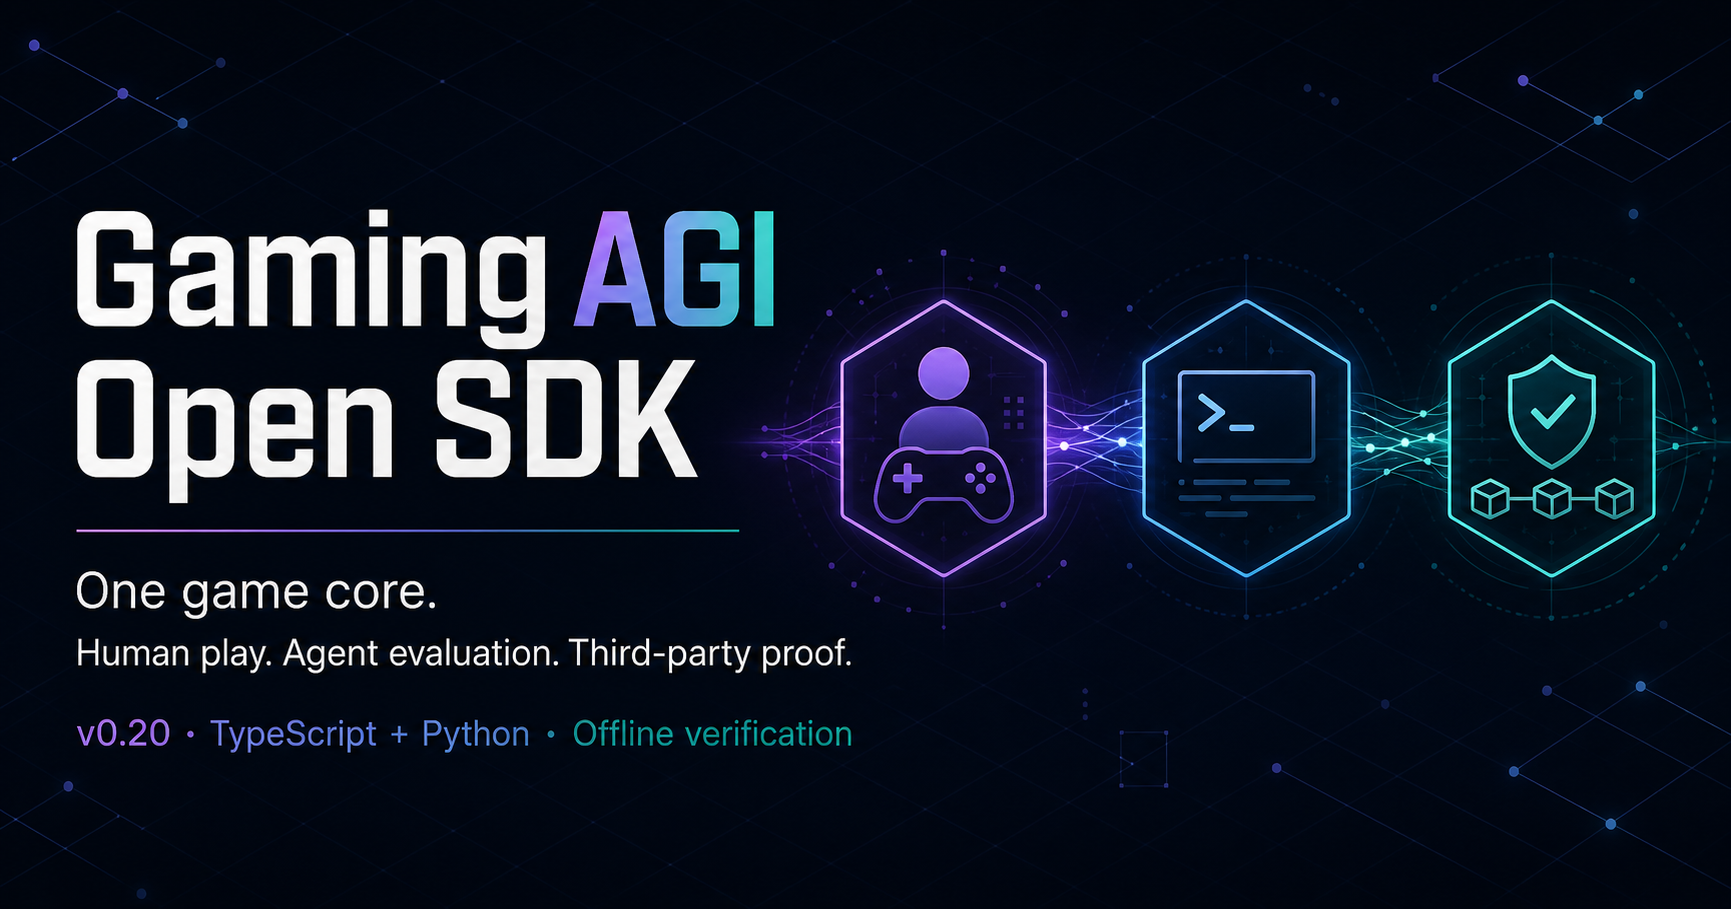
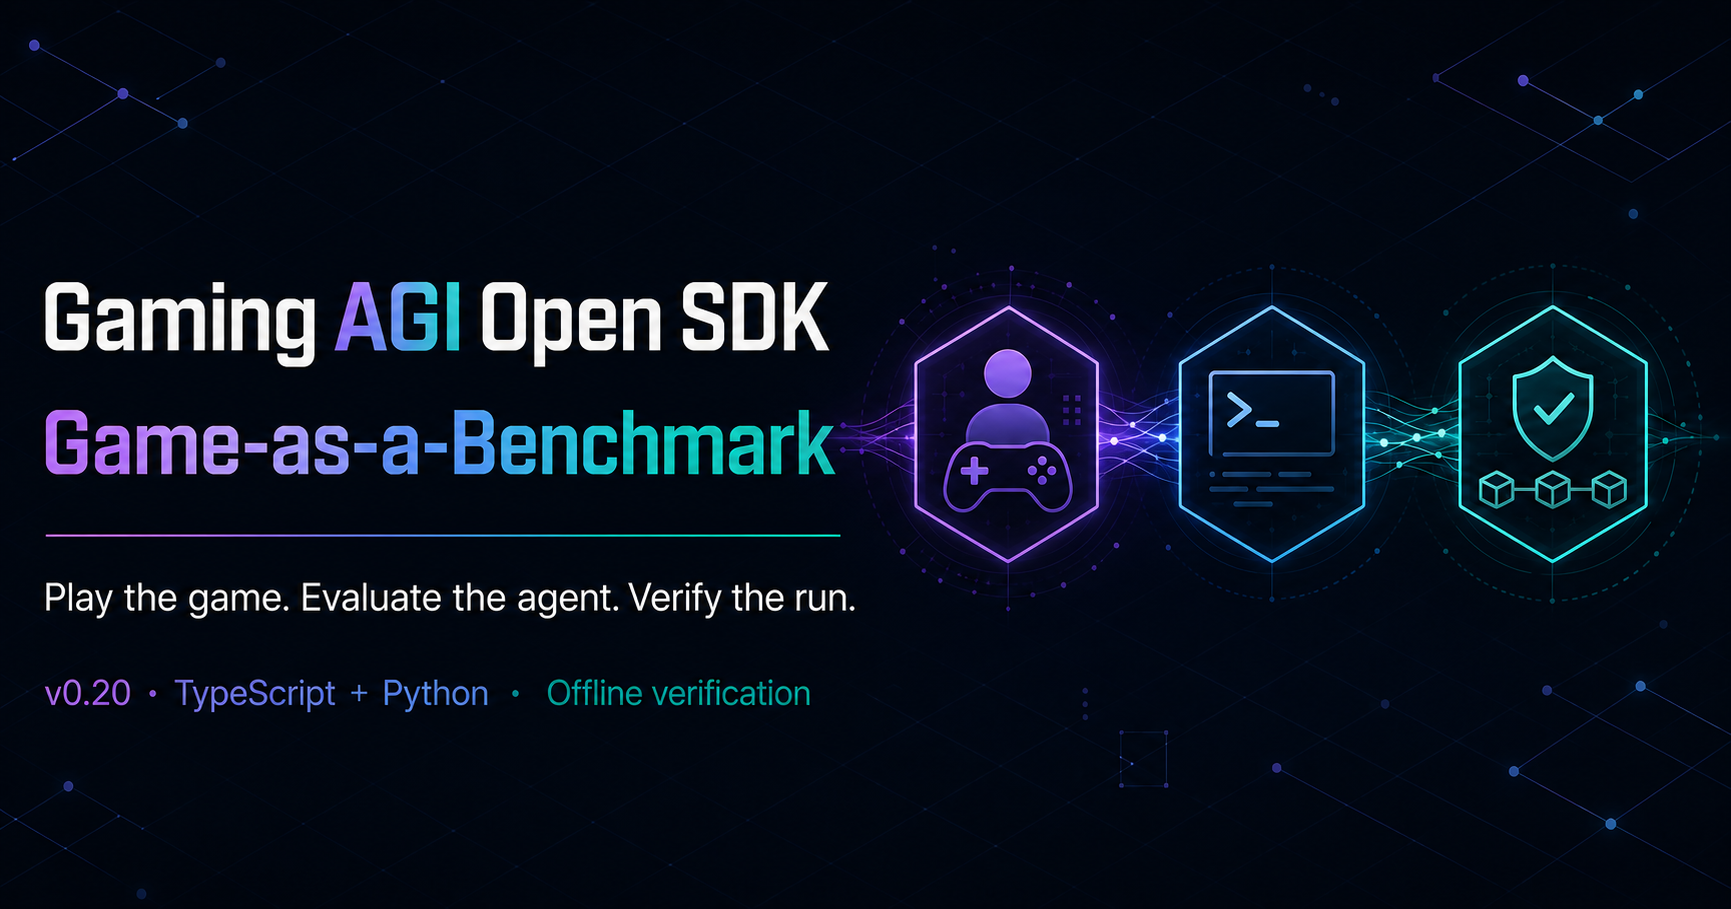
docs: establish Game-as-a-Benchmark positioning

Changed region(s): [[0.0, 0.2156, 1.0, 0.6777], [0.0312, 0.7085, 0.4991, 0.8317]]

diff --git a/docs/.vitepress/theme/custom.css b/docs/.vitepress/theme/custom.css
@@ -84,6 +84,48 @@
   color: var(--vp-c-text-1);
 }
 
+.category-definition {
+  position: relative;
+  overflow: hidden;
+  margin: 0 0 3.5rem;
+  border: 1px solid color-mix(in srgb, var(--vp-c-brand-1) 34%, var(--vp-c-divider));
+  border-radius: 20px;
+  padding: clamp(1.4rem, 4vw, 2.4rem);
+  background:
+    radial-gradient(circle at 100% 0%, color-mix(in srgb, #23879a 17%, transparent), transparent 44%),
+    radial-gradient(circle at 0% 100%, color-mix(in srgb, #6b5bd6 15%, transparent), transparent 48%),
+    var(--vp-c-bg-soft);
+}
+
+.category-kicker {
+  color: var(--vp-c-brand-1);
+  font-size: 0.74rem;
+  font-weight: 850;
+  letter-spacing: 0.1em;
+  text-transform: uppercase;
+}
+
+.category-definition h2 {
+  max-width: 760px;
+  margin: 0.55rem 0 0.8rem;
+  border: 0;
+  padding: 0;
+  font-size: clamp(1.45rem, 3.5vw, 2.15rem);
+  line-height: 1.2;
+}
+
+.category-definition p {
+  max-width: 820px;
+  color: var(--vp-c-text-2);
+  line-height: 1.75;
+}
+
+.category-definition a {
+  color: var(--vp-c-brand-1);
+  font-weight: 750;
+  text-decoration: none;
+}
+
 .home-section-intro {
   max-width: 760px;
   color: var(--vp-c-text-2);

diff --git a/README.md b/README.md
@@ -1,25 +1,34 @@
 # Gaming AGI Open SDK (GAOS)
 
-**Build deterministic games. Evaluate agents. Let any third party verify the
-result.**
+**The open-source Game-as-a-Benchmark SDK. Build deterministic games, evaluate
+agents, and let any third party verify the result.**
 
 [Documentation](https://yugao-gaos.github.io/GAOS-TurnBasedGrid-SDK/) ·
 [Playable demos](https://yugao-gaos.github.io/GAOS-TurnBasedGrid-SDK/demos/) ·
 [v0.20 release notes](docs/releases.md) ·
 [Discord](https://discord.gg/vdvUgcqPU)
 
-GAOS is an open-source TypeScript and Python SDK for games that humans and
-agents can both play across turn-based, simultaneous WEGO, and fixed-tick
-real-time systems. One reducer drives the game, the agent environment, the
-authoritative session, and deterministic replay. Signed runs can be checked
-offline by anyone with the pinned game adapter—without trusting the host or a
-GAOS-operated service.
+GAOS is an open-source TypeScript and Python SDK for **Game-as-a-Benchmark**:
+games that humans and agents can both play across turn-based, simultaneous
+WEGO, and fixed-tick real-time systems. One reducer drives the game, the agent
+environment, the authoritative session, and deterministic replay. Signed runs
+can be checked offline by anyone with the pinned game adapter—without trusting
+the host or a GAOS-operated service.
 
 **The problem it solves:** agent evaluation results are self-published, and
 checking one today means re-running the whole evaluation at the full inference
 cost of the original — after which you still have a different sample rather
 than that run. GAOS keeps producing a result expensive and makes validation
 nearly free. [Why verification, not trust →](#why-verification-not-trust)
+
+## What is Game-as-a-Benchmark?
+
+**Game-as-a-Benchmark** turns a playable game into a versioned evaluation
+environment. Humans and agents face the same rules and canonical actions;
+every scored run can carry portable evidence of exactly what happened. It is
+not a static test set or a claim that every game score measures general
+intelligence—the benchmark operator still owns the tasks, scoring meaning,
+held-out content, and capability claims.
 
 ## The three reasons to use GAOS
 
@@ -52,16 +61,16 @@ and commercial policy.
 
 ## Built for two teams
 
-| Game developers | Benchmark and evaluation teams |
+| Game developers | Game-as-a-Benchmark teams |
 |---|---|
 | Ship human play today without creating a second rules engine for bots tomorrow. Use reusable board, card, zone, movement, visibility, scoring, settlement, and session mechanisms. | Turn interactive games into reproducible single- or multi-agent evaluations. Use structured legal actions, provider-neutral drivers, portable transcripts, signed evidence, and offline verification. |
 | [Build your first game →](docs/quickstart.md) | [Build an agent evaluation →](docs/agentic-play.md) |
 
 ## Where GAOS fits
 
-GAOS is **open verification infrastructure for game-based AI evaluations**. It
-is the deterministic execution and evidence layer beneath a game, benchmark,
-or tournament—not a replacement for the rest of the stack.
+GAOS is **open verification infrastructure for Game-as-a-Benchmark
+evaluations**. It is the deterministic execution and evidence layer beneath a
+game, benchmark, or tournament—not a replacement for the rest of the stack.
 
 Use GAOS alongside:
 

diff --git a/docs/index.md b/docs/index.md
@@ -3,8 +3,8 @@ layout: home
 
 hero:
   name: Gaming AGI Open SDK
-  text: Open verification infrastructure for game-based AI evaluations.
-  tagline: One deterministic core powers human play, agent evaluation, and signed run evidence that any third party can validate offline—without re-running the model or trusting the host.
+  text: Game-as-a-Benchmark infrastructure for verifiable AI evaluation.
+  tagline: Build a game humans can play, agents can be evaluated in, and any third party can verify offline—without re-running the model or trusting the host.
   actions:
     - theme: brand
       text: Build a game
@@ -33,10 +33,21 @@ features:
 ---
 
 <div class="release-proof" aria-label="GAOS v0.20 release facts">
+  <span><strong>Game-as-a-Benchmark</strong></span>
   <span><strong>v0.20</strong> signed portable evidence</span>
   <span><strong>TypeScript + Python</strong></span>
   <span><strong>No verification service required</strong></span>
 </div>
+
+<section class="category-definition">
+  <span class="category-kicker">Game-as-a-Benchmark</span>
+  <h2>A game people can play. A benchmark agents cannot hand-wave.</h2>
+  <p>Use one versioned game as the human experience, the agent environment,
+  and the source of portable evaluation evidence. GAOS keeps rules and actions
+  identical across participants while your benchmark owns its tasks, score
+  meaning, held-out content, and capability claims.</p>
+  <a href="./mission">Read the Game-as-a-Benchmark thesis →</a>
+</section>
 
 ## Why verification, not trust
 
@@ -83,7 +94,7 @@ evaluation without asking either team to give up ownership of its product.</p>
   </section>
 
   <section class="audience-card audience-card--evaluation">
-    <span class="audience-kicker">For benchmark & evaluation teams</span>
+    <span class="audience-kicker">For Game-as-a-Benchmark teams</span>
     <h3>Turn interactive play into defensible evidence.</h3>
     <p>Expose concrete legal actions to model or CLI agents, run single- or
     multi-agent episodes, and publish signed portable artifacts. A third party
@@ -98,8 +109,8 @@ evaluation without asking either team to give up ownership of its product.</p>
 ## Where GAOS fits
 
 <p class="home-section-intro">GAOS is the deterministic execution and evidence
-layer beneath a game, benchmark, or tournament. It complements the rest of
-your stack instead of replacing it.</p>
+layer beneath a Game-as-a-Benchmark product or tournament. It complements the
+rest of your stack instead of replacing it.</p>
 
 | Your existing layer | Keep using it for | GAOS adds |
 |---|---|---|
@@ -159,7 +170,7 @@ reducer, agent, replay, and verification contracts in a different game shape.
 
 [Build a fixed-tick real-time game →](/high-frequency)
 
-[Read the mission and benchmark thesis →](/mission)
+[Read the Game-as-a-Benchmark mission →](/mission)
 
 ## Built with GAOS
 

diff --git a/docs/quickstart.md b/docs/quickstart.md
@@ -1,15 +1,15 @@
 # Quickstart
 
-GAOS gives game developers and interactive-benchmark creators the same starting
+GAOS gives game developers and Game-as-a-Benchmark creators the same starting
 point: one reducer that can power human play, agent play, and replay
 verification.
 
 - **Building a game?** Start with the mechanism family closest to your game,
   then wrap the finished reducer with `AgentEnvironment` when you want an AI
   player, solver, tournament, or evaluation.
-- **Building a benchmark?** Start with the environment contract and use the
-  mechanism suite to create deeper interactive tasks without building a game
-  runtime from scratch.
+- **Building a Game-as-a-Benchmark product?** Start with the environment
+  contract and use the mechanism suite to create deeper interactive tasks
+  without building a game runtime from scratch.
 
 You can also use the TypeScript engine by itself or connect either language to
 a protocol-compatible host. All paths converge on the same deterministic game
@@ -89,7 +89,7 @@ does not depend on any model provider or CLI package.
 | Square, hex, graph, or multi-board game | [Locations and layouts](/mechanisms/locations-and-layouts) |
 | Sequential or simultaneous multiplayer | [Ticks and lockstep](/mechanisms/ticks-and-lockstep) |
 | Hybrid board/zone game | [Portals](/mechanisms/portals) |
-| Agent benchmark or tournament | [Agentic play](/agentic-play) and [portable replay](/mechanisms/replay) |
+| Game-as-a-Benchmark evaluation or tournament | [Agentic play](/agentic-play) and [portable replay](/mechanisms/replay) |
 
 The [complete capability map](/capabilities) shows which mechanism families
 compose without requiring a board.

diff --git a/docs/mission.md b/docs/mission.md
@@ -1,11 +1,11 @@
-# Mission: games as shared benchmarks
+# Mission: Game-as-a-Benchmark
 
 ## Our mission
 
-**GAOS exists to make interactive games a shared, inspectable proving ground
-for human and machine intelligence—where both reach the same authoritative
-rules, face the same consequences, and can be compared through reproducible
-play rather than persuasive outputs alone.**
+**GAOS exists to establish Game-as-a-Benchmark as a shared, inspectable proving
+ground for human and machine intelligence—where both reach the same
+authoritative rules, face the same consequences, and can be compared through
+reproducible play rather than persuasive outputs alone.**
 
 We want developers to be able to build games that are enjoyable for people,
 playable by agents without UI automation, and rigorous enough to reveal how a
@@ -32,10 +32,10 @@ claims, authored tasks, scoring meaning, human analytics, held-out evaluation,
 publication, and commercial policy remain the responsibility of that benchmark
 product. GAOS makes those products faster to build and easier to interoperate.
 
-## What we mean by a benchmark
+## What Game-as-a-Benchmark means
 
-A useful game benchmark is not one level, one model score, or one leaderboard.
-It is a versioned evaluation system:
+A useful Game-as-a-Benchmark product is not one level, one model score, or one
+leaderboard. It is a playable, versioned evaluation system:
 
 ```text
 environment + task suite + action protocol + metrics + replay evidence

diff --git a/docs/capabilities.md b/docs/capabilities.md
@@ -1,8 +1,8 @@
 # Capabilities
 
-GAOS is a general-purpose SDK for deterministic, verifiable,
-agent-playable games. A game can use one mechanism family by itself or
-combine several through a product-owned `TickReducer`. Card games, drafting
+GAOS is a general-purpose Game-as-a-Benchmark SDK for deterministic,
+verifiable, agent-playable games. A game can use one mechanism family by itself
+or combine several through a product-owned `TickReducer`. Card games, drafting
 games, hidden-role games, abstract graph games, tactics games, simulations, and
 hybrids use the same reducer, agent, and replay contracts.
 
@@ -112,7 +112,7 @@ The settlement kernel and focused mechanisms cover:
 Each mechanism receives product callbacks for meaning and mutation. GAOS owns
 ordering and failure semantics; the game owns rules content and presentation.
 
-## Agents and benchmarks
+## Agents and Game-as-a-Benchmark
 
 `AgentEnvironment` and `MultiAgentEnvironment` expose concrete legal actions
 from the same reducer used by ordinary play. They support seat-redacted views,

diff --git a/docs/agentic-play.md b/docs/agentic-play.md
@@ -2,7 +2,8 @@
 
 The SDK is agent-playable because agents can discover and operate a deterministic
 environment without a renderer, a particular model provider, or product-owned
-control code.
+control code. This is the agent-facing half of Game-as-a-Benchmark: the same
+game rules used for human play become a structured evaluation environment.
 
 ## Environment contract
 
@@ -74,6 +75,10 @@ hidden state.
 `runAgentEpisode` accepts synchronous or asynchronous policies.
 `evaluateAgentEpisodes` runs a deterministic case list and reports wins,
 failures, truncations, mean reward, and mean ticks.
+
+In a Game-as-a-Benchmark evaluation, these episodes are not detached test
+fixtures. They are runs of the same versioned game humans can play, expressed
+through canonical observations and actions.
 
 ```ts
 const result = await evaluateAgentEpisodes(

diff --git a/docs/terminology.md b/docs/terminology.md
@@ -7,6 +7,7 @@ documentation.
 
 | Term | Meaning |
 | --- | --- |
+| **Game-as-a-Benchmark** | A playable, versioned game used as an evaluation environment, where humans and agents share authoritative rules and scored runs can carry portable verification evidence. The benchmark operator still owns tasks, scoring meaning, held-out content, and capability claims. |
 | **agent-playable** | The game exposes structured observations and canonical actions that an agent can use without UI automation. This is the SDK's primary promise. |
 | **agent-ready** | The game keeps one authoritative reducer and can add agent play later without rebuilding its rules. |
 | **agent** | Any policy that chooses an action: a script, search algorithm, model, CLI process, or person acting through an adapter. |

diff --git a/docs/mechanisms/index.md b/docs/mechanisms/index.md
@@ -1,9 +1,10 @@
 # Mechanism reference
 
 The `./engine` package is a set of deterministic, product-neutral building
-blocks for games. Each page in this section describes one
-mechanism family: the state it expects, the ordering it guarantees, the policy
-the product must inject, and the edge cases an integration should test.
+blocks for Game-as-a-Benchmark products and standalone games. Each page in
+this section describes one mechanism family: the state it expects, the
+ordering it guarantees, the policy the product must inject, and the edge cases
+an integration should test.
 
 No board is required. Card-only and hidden-role games can use zones,
 information partitions, tick order, response windows, agents, and replay

diff --git a/docs/architecture.md b/docs/architecture.md
@@ -1,9 +1,8 @@
 # Architecture map
 
-GAOS bridges game development and agent evaluation through one authoritative
-reducer. A human-facing client, an autonomous agent, a solver, and a replay
-verifier consume the same rules instead of maintaining separate
-implementations.
+GAOS implements Game-as-a-Benchmark through one authoritative reducer. A
+human-facing client, an autonomous agent, a solver, and a replay verifier
+consume the same rules instead of maintaining separate implementations.
 
 The ownership boundary remains deliberate: reusable behavior belongs in the
 SDK; authored meaning, benchmark methodology, and product policy stay with the

diff --git a/docs/roadmap.md b/docs/roadmap.md
@@ -1,8 +1,8 @@
 # Roadmap
 
-GAOS is an open-source bridge between game development and agent evaluation.
-The current v0.x line is focused on making that bridge easier to adopt and
-stable enough for independent games and benchmarks to share.
+GAOS is an open-source Game-as-a-Benchmark bridge between game development and
+agent evaluation. The current v0.x line is focused on making that bridge easier
+to adopt and stable enough for independent games and benchmarks to share.
 
 Roadmap items describe direction, not a compatibility promise or release date.
 Published release notes remain the source of truth for shipped behavior.

diff --git a/docs/version-history.md b/docs/version-history.md
@@ -12,7 +12,8 @@ Portable replay now adds roster-bound Ed25519 submission chains and explicit
 
 Released July 26, 2026 after Arena and TabletopLabs returned their v0.19
 integration findings. v0.20 makes the resulting signed artifacts fully
-third-party verifiable with a pinned historical adapter and no GAOS service.
+third-party verifiable with a pinned historical adapter and no GAOS service,
+providing the evidence layer for Game-as-a-Benchmark products.
 
 - `gaos.replay` v1.2 validates and verifies
   `gaos.submission.ed25519.v1`, with canonical command/cursor/time material for
